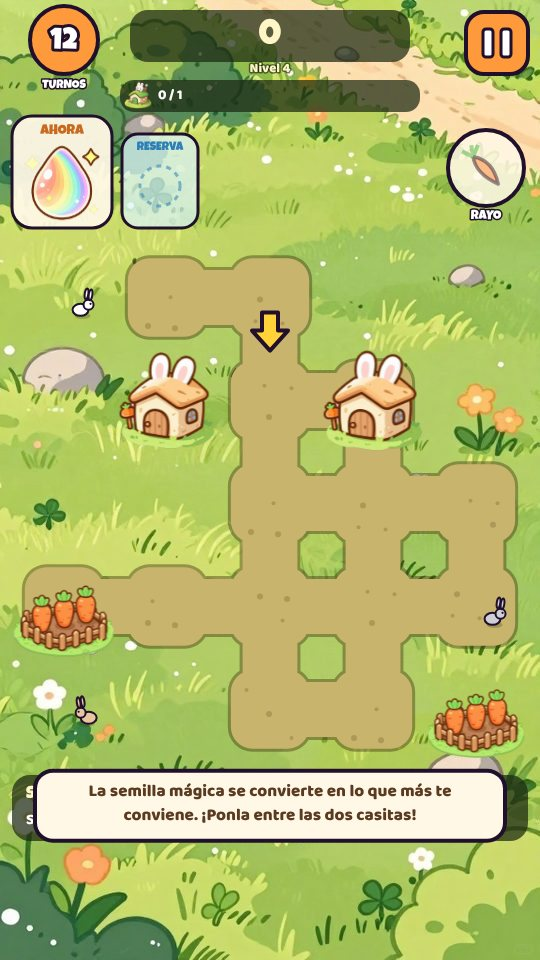
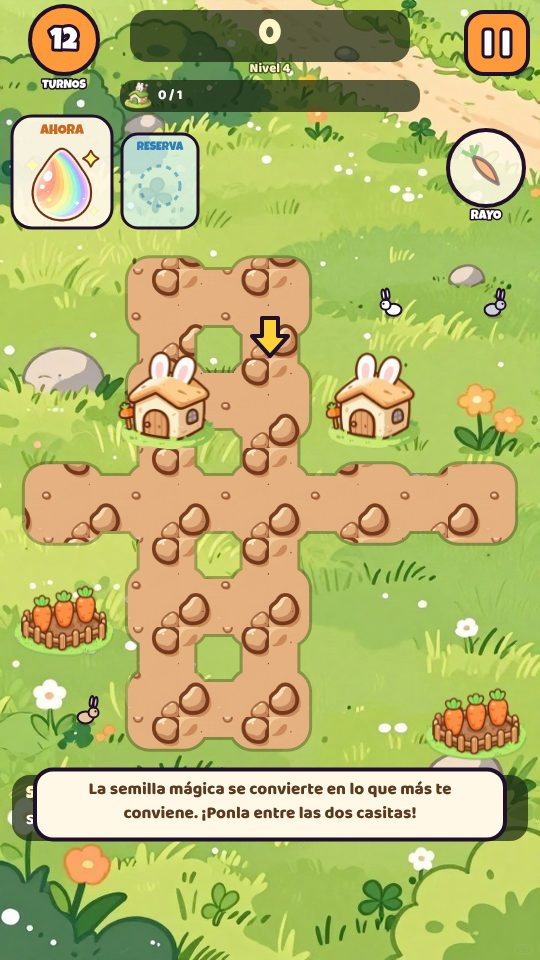
alfa ca52042: Fans of Merge: senderos rellenos con tierra pintada por Yoshi; fuera el suelo co

diff --git a/alfa/index.html b/alfa/index.html
@@ -10,10 +10,10 @@
 <link rel="preconnect" href="https://fonts.googleapis.com">
 <link rel="preconnect" href="https://fonts.gstatic.com" crossorigin>
 <link rel="stylesheet" href="https://fonts.googleapis.com/css2?family=Baloo+2:wght@600;700;800&family=Luckiest+Guy&display=swap">
-<link rel="stylesheet" href="core/css/base.css?v=90acb83">
-<link rel="stylesheet" href="biblioteca/tienda.css?v=90acb83">
-<link rel="stylesheet" href="novedades/ventana.css?v=90acb83">
-<link rel="stylesheet" href="biblioteca/votos.css?v=90acb83">
+<link rel="stylesheet" href="core/css/base.css?v=ca52042">
+<link rel="stylesheet" href="biblioteca/tienda.css?v=ca52042">
+<link rel="stylesheet" href="novedades/ventana.css?v=ca52042">
+<link rel="stylesheet" href="biblioteca/votos.css?v=ca52042">
 <style>
   /* la entrada de la web: una tarjeta por juego, con los colores y las letras de core */
   body { overflow: auto; touch-action: auto; align-items: flex-start; background-repeat: no-repeat; background-attachment: fixed; }
@@ -61,7 +61,7 @@
 </style>
 </head>
 <body>
-<script src="menu.js?v=90acb83" data-base="" data-core="1" data-pagina=""></script>
+<script src="menu.js?v=ca52042" data-base="" data-core="1" data-pagina=""></script>
 <div class="nov-fondo" id="novedades" hidden>
   <div class="nov-caja" role="dialog" aria-modal="true" aria-labelledby="nov-titulo">
     <div class="nov-cabeza"><h2 class="ol" id="nov-titulo">NOVEDADES</h2><p id="nov-sub"></p></div>
@@ -333,8 +333,8 @@
   </section>
   <p class="note" id="pie-fansof">Fans Of™ · © 2026 Arkioner y Pepins · MicroBlizz · Todos los derechos reservados</p>
 </main>
-<script src="core/js/nucleo.js?v=0-a621.90acb83"></script>
-<script src="core/js/novedades.js?v=90acb83"></script>
+<script src="core/js/nucleo.js?v=0-a622.ca52042"></script>
+<script src="core/js/novedades.js?v=ca52042"></script>
 <script>
 // La cuenta de la web es la misma de los juegos (core/js/sistema/cuenta.js, mismo navegador = misma sesión). Aquí no hay partida que subir.
 const AJUSTES = { id: 'web', guardado: 'fansof-web' }, SAVE_KEY = AJUSTES.guardado, SAVE = {};
@@ -343,7 +343,7 @@ const HOOKS = {};
 function hook(name, fn) { (HOOKS[name] = HOOKS[name] || []).push(fn); }
 function fire(name, ...a) { let out = ''; for (const fn of HOOKS[name] || []) { const r = fn(...a); if (typeof r === 'string') out += r; } return out; }
 </script>
-<script src="core/js/sistema/cuenta.js?v=90acb83"></script>
+<script src="core/js/sistema/cuenta.js?v=ca52042"></script>
 <script>NUCLEO.idiomaSolo({ en: ['core/idioma/en-raiz.js', 'novedades/en.js', 'biblioteca/en.js','games/rumble/idioma/en-7.js', 'games/td/idioma/en-2.js', 'games/survivors/idioma/en.js', 'games/crush/idioma/en-raiz.js', 'games/jump/idioma/en-raiz.js', 'games/taxi/idioma/en-raiz.js', 'games/dark/idioma/en-raiz.js', 'games/nova/idioma/en-raiz.js', 'demos/beams/idioma/en-raiz.js', 'demos/snakes/idioma/en-raiz.js', 'demos/merge/idioma/en-raiz.js', 'demos/swipe/idioma/en-raiz.js', 'demos/vikings/idioma/en-raiz.js', 'demos/goose/idioma/en-raiz.js', 'demos/asalto/idioma/en-raiz.js', 'demos/auto/idioma/en-raiz.js', 'games/island/idioma/en-raiz.js', 'demos/rumble-3d/idioma/en-raiz.js', 'demos/roguelite/idioma/en-raiz.js', 'demos/tactics-advance/idioma/en-raiz.js', 'games/rouflage/idioma/en-raiz.js', 'demos/dungeons/idioma/en-raiz.js', 'games/karts/idioma/en-raiz.js', 'demos/recruit/idioma/en-raiz.js', 'demos/terminal-shock/idioma/en-raiz.js', 'games/ratkov/idioma/en-raiz.js'] })</script>
 <script>
 // La versión y las novedades salen de los archivos de cada juego, así que esta página nunca se queda atrás.
@@ -369,14 +369,14 @@ const fail = id => () => {
 };
 
 </script>
-<script src="core/js/proximamente.js?v=90acb83"></script>
-<script src="novedades/ventana.js?v=90acb83"></script>
-<script src="biblioteca/tienda.js?v=90acb83"></script>
-<script src="core/js/sistema/beta.js?v=90acb83"></script>
-<script src="biblioteca/cuenta-web.js?v=90acb83"></script>
-<script src="biblioteca/votos.js?v=90acb83"></script>
-<script src="biblioteca/alfa.js?v=90acb83"></script>
-<script src="core/js/sistema/analitica.js?v=90acb83"></script>
-<script src="pie.js?v=90acb83" defer></script>
+<script src="core/js/proximamente.js?v=ca52042"></script>
+<script src="novedades/ventana.js?v=ca52042"></script>
+<script src="biblioteca/tienda.js?v=ca52042"></script>
+<script src="core/js/sistema/beta.js?v=ca52042"></script>
+<script src="biblioteca/cuenta-web.js?v=ca52042"></script>
+<script src="biblioteca/votos.js?v=ca52042"></script>
+<script src="biblioteca/alfa.js?v=ca52042"></script>
+<script src="core/js/sistema/analitica.js?v=ca52042"></script>
+<script src="pie.js?v=ca52042" defer></script>
 </body>
 </html>

diff --git a/alfa/games/rouflage/index.html b/alfa/games/rouflage/index.html
@@ -10,7 +10,7 @@
 <link rel="preconnect" href="https://fonts.googleapis.com">
 <link rel="preconnect" href="https://fonts.gstatic.com" crossorigin>
 <link rel="stylesheet" href="https://fonts.googleapis.com/css2?family=Baloo+2:wght@600;700;800&family=Luckiest+Guy&display=swap">
-<script src="../../core/js/nucleo.js?v=0.2.62-a621.90acb83"></script>
+<script src="../../core/js/nucleo.js?v=0.2.62-a622.ca52042"></script>
 <script>NUCLEO.estilos('../../core/css/base.css', '../../core/css/menus.css', '../../core/css/menus-extra.css')</script>
 <script>NUCLEO.estilos('estilo.css', 'estilo-taller.css', 'estilo-pantallas.css', 'estilo-pvp.css', 'estilo-armario.css', 'estilo-menus.css', 'estilo-misiones.css', 'estilo-escenario.css', 'estilo-votos.css', 'estilo-gacha.css', 'estilo-compra.css', 'estilo-fin.css', 'estilo-talentos.css', 'estilo-chat.css', 'estilo-titulo.css', 'estilo-barra.css', 'estilo-sala-viva.css', 'estilo-obra.css', 'estilo-ayuda.css', 'estilo-carga.css')</script>      <!-- la intro, la última: pisa el #carga de estilo.css (antes iba en línea dentro de #carga) -->
 </head>

diff --git a/alfa/demos/merge/js/pintar.js b/alfa/demos/merge/js/pintar.js
@@ -126,8 +126,10 @@ function mgPintaCaminos(c, t) {
       if (libre(x, y + 1)) c.rect(cx - r * 0.7 - pad, cy, (r * 0.7 + pad) * 2, cs);
     }
   };
-  if (MG_IMG.CAMINO) {   // el camino pintado: un trozo por casilla, un poco más grande para que se unan
-    for (let y = 0; y < n; y++) for (let x = 0; x < n; x++) if (libre(x, y)) mgImg(c, 'CAMINO', mgCx(x) - cs * 0.6, mgCy(y) - cs * 0.6, cs * 1.2, cs * 1.2);
+  if (MG_IMG.TIERRA) {   // el camino: la forma de los senderos rellena con la tierra pintada por Yoshi
+    if (!MG_V.patronT || MG_V.patronTDe !== MG_IMG.TIERRA) { MG_V.patronT = c.createPattern(MG_IMG.TIERRA, 'repeat'); MG_V.patronTDe = MG_IMG.TIERRA; }
+    forma(3); c.fillStyle = 'rgba(70,60,20,.4)'; c.fill('nonzero');
+    forma(0); c.save(); c.clip('nonzero'); c.scale(0.35, 0.35); c.fillStyle = MG_V.patronT; c.fillRect(0, 0, 540 / 0.35, MG_V.H / 0.35); c.restore();
   } else {
   forma(3); c.fillStyle = 'rgba(70,60,20,.45)'; c.fill('nonzero');
   forma(0); c.fillStyle = '#c9b46e'; c.fill('nonzero');

diff --git a/alfa/demos/merge/js/sprites.js b/alfa/demos/merge/js/sprites.js
@@ -9,7 +9,7 @@ const SPRITES = {
   zorro: 'img/zorro.png', cuervo: 'img/cuervo.png', semilla: 'img/semilla.png', topo: 'img/topo.png',
   FONDO: 'img/fondo.jpg', BUNNY: 'img/bunny.png',
   // el escenario y la interfaz, también pintados por Yoshi: suelo (textura que se repite), camino, conejito, iconos, charco y marco
-  SUELO: 'img/suelo.jpg', CAMINO: 'img/camino.png', CONEJITO: 'img/conejito.png', RAYO: 'img/rayo.png', TIRACHINAS: 'img/tirachinas.png',
+  SUELO: 'img/suelo.jpg', TIERRA: 'img/tierra.jpg', CAMINO: 'img/camino.png', CONEJITO: 'img/conejito.png', RAYO: 'img/rayo.png', TIRACHINAS: 'img/tirachinas.png',
   FLECHA: 'img/flecha.png', CHARCO: 'img/charco.png', MARCO: 'img/marco.png',
   CHISPA: 'img/chispa.png', HOJA: 'img/hoja.png', RELAMPAGO: 'img/relampago.png', ESTRELLA: 'img/estrella.png', TABLON: 'img/tablon.png', BOTON: 'img/boton.png', LOGO: 'img/logo.png',
 };

diff --git a/alfa/games/karts/index.html b/alfa/games/karts/index.html
@@ -8,7 +8,7 @@
 <meta name="description" content="Fans of Karts (juego): carreras de karts en pixel art de consola portátil con los líderes de Fans of Rumble. Tres pistas, seis pilotos, objetos con mala idea y Microblizz, que ha comprado la carrera.">
 <link rel="icon" type="image/png" href="img/icon-192.png">
 <link rel="apple-touch-icon" href="img/icon-192.png">
-<script src="../../core/js/nucleo.js?v=0.7.13-a621.90acb83"></script>
+<script src="../../core/js/nucleo.js?v=0.7.13-a622.ca52042"></script>
 <script>NUCLEO.estilos('../../core/css/base.css', '../../core/css/menus.css', '../../core/css/menus-tienda.css', '../../core/css/menus-extra.css', 'css/tienda.css', 'css/pvp.css')</script>
 <link rel="stylesheet" href="https://fonts.googleapis.com/css2?family=Baloo+2:wght@600;700;800&family=Luckiest+Guy&display=swap">
 <style>

diff --git a/alfa/games/dark/index.html b/alfa/games/dark/index.html
@@ -12,7 +12,7 @@
 <link rel="stylesheet" href="https://fonts.googleapis.com/css2?family=Baloo+2:wght@600;700;800&family=Luckiest+Guy&family=Press+Start+2P&family=Pixelify+Sans:wght@400;600;700&display=swap">
 <link rel="stylesheet" href="css/dark.css?v=0.2.4">
 <!-- Prototipo: no usa NUCLEO (tiene su propia partida guardada). Carga de core el arte, la música, los efectos y las cifras del Rumble.
-     VERSIÓN para desplegar.py (que la busca así): nucleo.js?v=0.2.7-a621.90acb83' (aquí solo se anota; súbela junto al ?v= de los scripts). -->
+     VERSIÓN para desplegar.py (que la busca así): nucleo.js?v=0.2.7-a622.ca52042' (aquí solo se anota; súbela junto al ?v= de los scripts). -->
 </head>
 <body>
 <canvas id="cv" aria-label="Mazmorra"></canvas>

diff --git a/alfa/games/rumble/index.html b/alfa/games/rumble/index.html
@@ -16,7 +16,7 @@
 <link rel="preconnect" href="https://fonts.gstatic.com" crossorigin>
 <link rel="stylesheet" href="https://fonts.googleapis.com/css2?family=Baloo+2:wght@600;700;800&family=Luckiest+Guy&display=swap">
 <!-- core/js/nucleo.js carga lo común y el juego. LA VERSIÓN SE ESCRIBE SOLO AQUÍ, en su ?v= -->
-<script src="../../core/js/nucleo.js?v=0.9.156-a621.90acb83"></script>
+<script src="../../core/js/nucleo.js?v=0.9.156-a622.ca52042"></script>
 <script>NUCLEO.estilos('../../core/css/menus.css', 'css/estilos-partida.css', 'css/estilos-extra.css', 'css/arena.css', '../../core/css/biblioteca.css', 'css/facciones-y-jefes.css', '../../core/css/clasificacion.css', 'css/frases.css', 'css/mitica.css', 'css/paletas.css')</script>
 
 </head>

diff --git a/alfa/games/jump/index.html b/alfa/games/jump/index.html
@@ -12,7 +12,7 @@
 <link rel="preconnect" href="https://fonts.gstatic.com" crossorigin>
 <link rel="stylesheet" href="https://fonts.googleapis.com/css2?family=Baloo+2:wght@600;700;800&family=Luckiest+Guy&display=swap">
 <!-- ?v= es la versión del juego (la misma en la web y en la app): súbela al publicar y pon su entrada en js/novedades.js -->
-<script src="../../core/js/nucleo.js?v=0.3.14-a621.90acb83"></script>
+<script src="../../core/js/nucleo.js?v=0.3.14-a622.ca52042"></script>
 <script>NUCLEO.estilos('../../core/css/base.css', '../../core/css/menus.css')</script>
 <style>
 /* Fans of Jump: un solo canvas a la resolución real de la pantalla, con los dibujos 3D. El mundo mide unos 200 de ancho y se

diff --git a/alfa/games/decks/index.html b/alfa/games/decks/index.html
@@ -15,7 +15,7 @@
 <link rel="preconnect" href="https://fonts.gstatic.com" crossorigin>
 <link rel="stylesheet" href="https://fonts.googleapis.com/css2?family=Baloo+2:wght@600;700;800&family=Luckiest+Guy&display=swap">
 <!-- core/js/nucleo.js carga lo común y el juego. LA VERSIÓN SE ESCRIBE SOLO AQUÍ, en su ?v= -->
-<script src="../../core/js/nucleo.js?v=0.2.19-a621.90acb83"></script>
+<script src="../../core/js/nucleo.js?v=0.2.19-a622.ca52042"></script>
 <script>NUCLEO.estilos('../../core/css/base.css', '../../core/css/menus.css', 'css/decks.css', 'css/decks-reunion.css', 'css/decks-anim.css', 'css/decks-campana.css', 'css/decks-lideres.css')</script>
 </head>
 <body>

diff --git a/alfa/demos/goose/index.html b/alfa/demos/goose/index.html
@@ -10,7 +10,7 @@
 <link rel="preconnect" href="https://fonts.gstatic.com" crossorigin>
 <link rel="stylesheet" href="https://fonts.googleapis.com/css2?family=Pixelify+Sans:wght@500;700&family=Pirata+One&display=swap">
 <!-- ?v= es la versión de la demo: súbela al publicar -->
-<script src="../../core/js/nucleo.js?v=0.3.0-a621.90acb83"></script>
+<script src="../../core/js/nucleo.js?v=0.3.0-a622.ca52042"></script>
 <script>NUCLEO.estilos('../../core/css/base.css', '../../core/css/menus.css')</script>
 <style>
 /* Fans of Goose: un solo canvas en vertical, a la resolución real del móvil. El mundo mide 200 de ancho. */

diff --git a/alfa/games/ratkov/index.html b/alfa/games/ratkov/index.html
@@ -13,7 +13,7 @@
 <link rel="preconnect" href="https://fonts.gstatic.com" crossorigin>
 <link rel="stylesheet" href="https://fonts.googleapis.com/css2?family=VT323&family=Russo+One&display=swap">
 <script src="https://cdnjs.cloudflare.com/ajax/libs/three.js/r128/three.min.js"></script>
-<script src="../../core/js/nucleo.js?v=0.2.27-a621.90acb83"></script>
+<script src="../../core/js/nucleo.js?v=0.2.27-a622.ca52042"></script>
 <script>NUCLEO.estilos('../../core/css/base.css', '../../core/css/menus.css')</script>
 <link rel="stylesheet" href="estilo.css?v=0.2.3">
 <link rel="stylesheet" href="estilo-refugio.css?v=0.2.3">

diff --git a/alfa/games/survivors/index.html b/alfa/games/survivors/index.html
@@ -15,7 +15,7 @@
 <link rel="preconnect" href="https://fonts.gstatic.com" crossorigin>
 <link rel="stylesheet" href="https://fonts.googleapis.com/css2?family=Baloo+2:wght@600;700;800&family=Luckiest+Guy&display=swap">
 <!-- core/js/nucleo.js carga lo común y el juego. LA VERSIÓN SE ESCRIBE SOLO AQUÍ, en su ?v= -->
-<script src="../../core/js/nucleo.js?v=0.1.69-a621.90acb83"></script>
+<script src="../../core/js/nucleo.js?v=0.1.69-a622.ca52042"></script>
 <script>NUCLEO.estilos('../../core/css/base.css', '../../core/css/menus.css', 'css/survivors.css', '../../core/css/biblioteca.css')</script>
 </head>
 <body>
